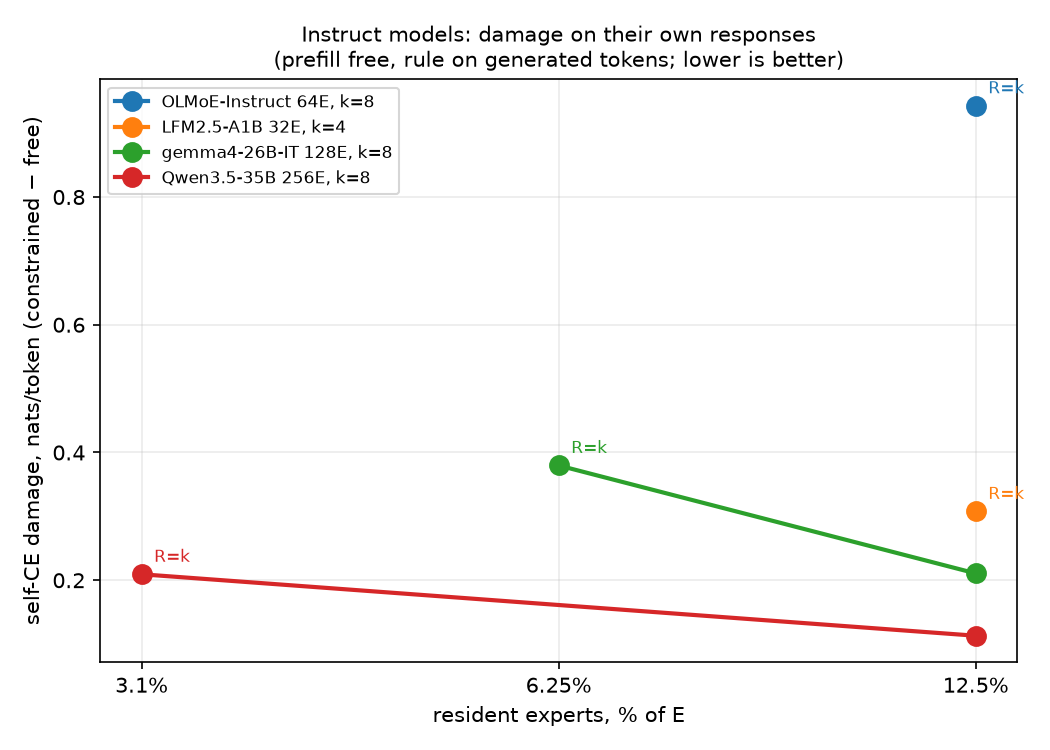
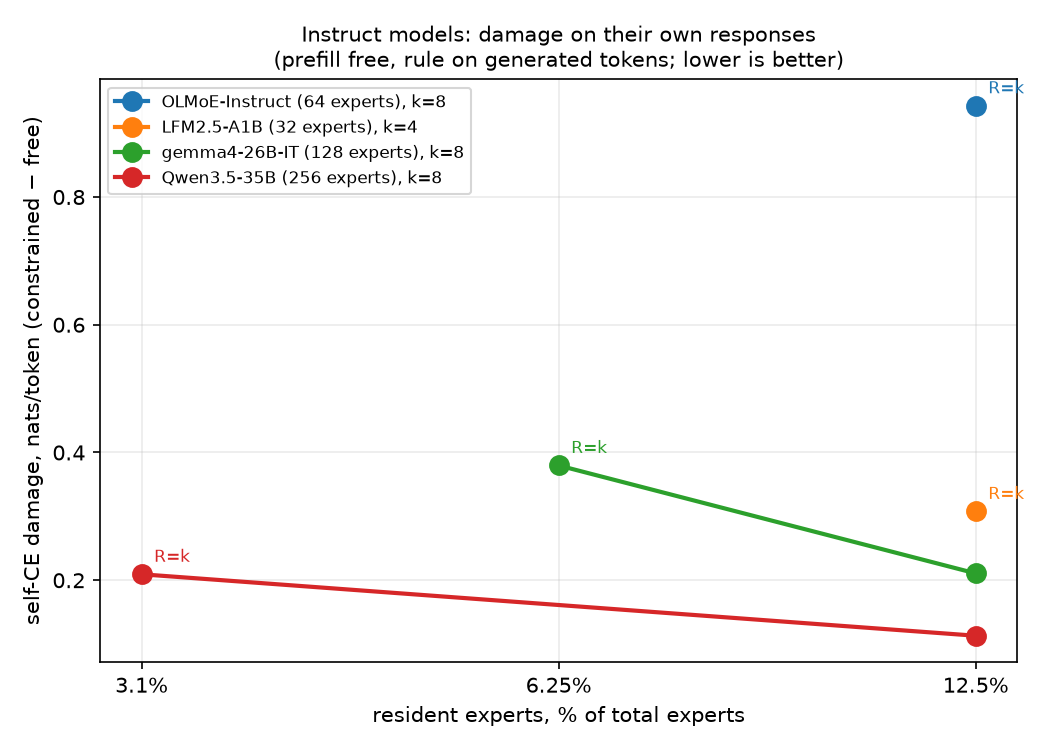
Figures: expert counts spelled out for third-party readers

Changed region(s): [[0.2438, 0.1227, 0.4571, 0.2453], [0.3657, 0.92, 0.701, 0.9813]]

diff --git a/analysis/ple/plot_instruct.py b/analysis/ple/plot_instruct.py
@@ -15,8 +15,10 @@ sys.path.insert(0, os.path.dirname(os.path.dirname(os.path.abspath(__file__))))
 from paths import ABLATIONS                                          # noqa: E402
 
 FIG = os.path.join(ABLATIONS, "figures")
-NAMES = {"olmoe_instruct": "OLMoE-Instruct 64E", "lfm25_instruct": "LFM2.5-A1B 32E",
-         "gemma4_instruct": "gemma4-26B-IT 128E", "qwen35_instruct": "Qwen3.5-35B 256E"}
+NAMES = {"olmoe_instruct": "OLMoE-Instruct (64 experts)",
+         "lfm25_instruct": "LFM2.5-A1B (32 experts)",
+         "gemma4_instruct": "gemma4-26B-IT (128 experts)",
+         "qwen35_instruct": "Qwen3.5-35B (256 experts)"}
 
 
 def selfce():
@@ -43,7 +45,7 @@ def selfce():
     ax.set_xticklabels(["3.1%", "6.25%", "12.5%"])
     ax.xaxis.set_minor_formatter(matplotlib.ticker.NullFormatter())
     ax.xaxis.set_minor_locator(matplotlib.ticker.NullLocator())
-    ax.set_xlabel("resident experts, % of E")
+    ax.set_xlabel("resident experts, % of total experts")
     ax.set_ylabel("self-CE damage, nats/token (constrained − free)")
     ax.set_title("Instruct models: damage on their own responses\n"
                  "(prefill free, rule on generated tokens; lower is better)", fontsize=10)
